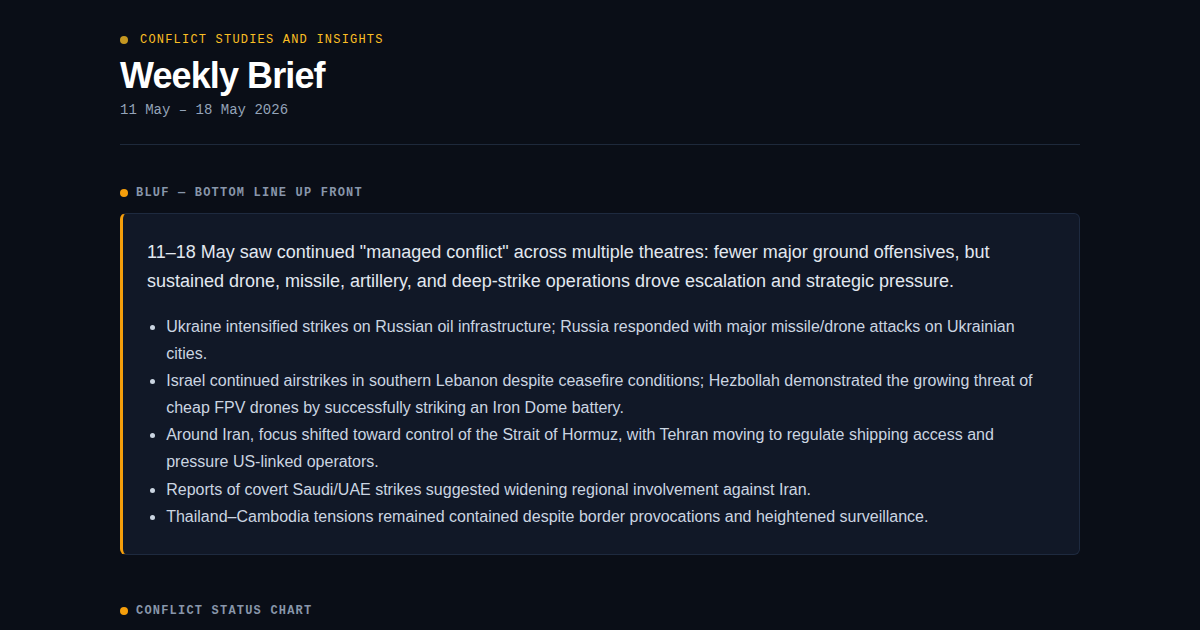
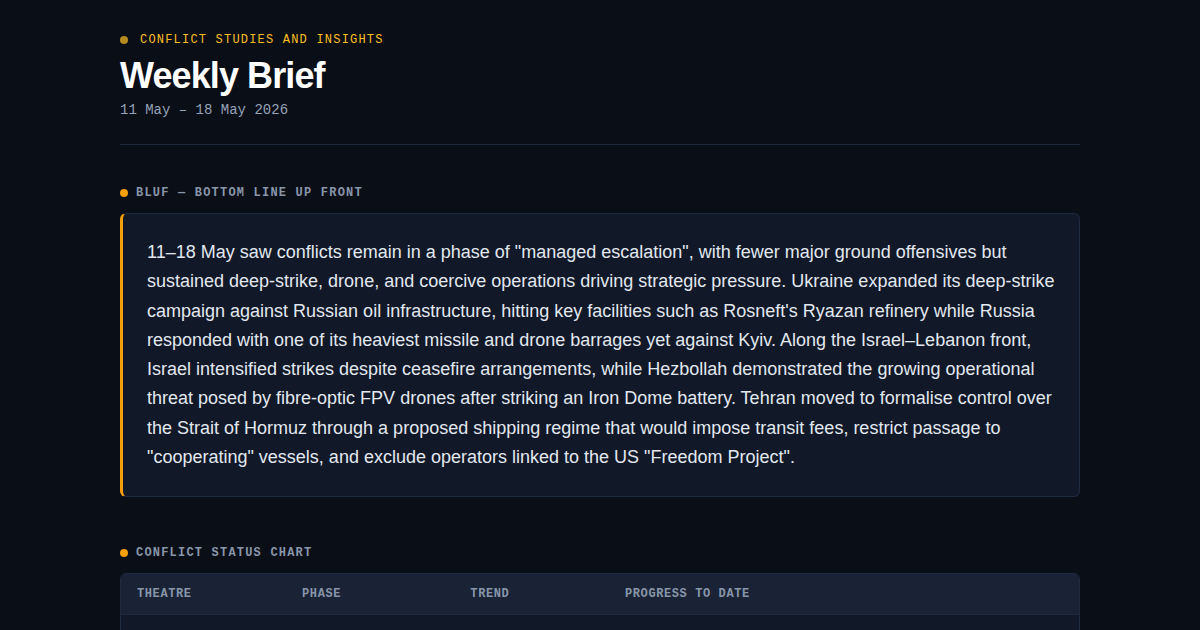
Add files via upload

Changed region(s): [[0.0925, 0.3921, 0.925, 0.9952]]

diff --git a/11-18-may-2026.html b/11-18-may-2026.html
@@ -334,16 +334,9 @@
   <section class="mb-12">
     <h2 class="font-mono text-xs tracking-widest uppercase mb-3" style="color:#8896aa;"><span class="sec-dot" style="background:#f59e0b"></span>BLUF — Bottom Line Up Front</h2>
     <div class="rounded-md p-5 sm-p-6" style="background:#111827; border:1px solid #1e2a3f; border-left:3px solid #f59e0b;">
-      <p class="text-base sm-text-lg leading-relaxed" style="color:#e2e8f0; margin-bottom:1rem;">
-        11–18 May saw continued "managed conflict" across multiple theatres: fewer major ground offensives, but sustained drone, missile, artillery, and deep-strike operations drove escalation and strategic pressure.
+      <p class="text-base sm-text-lg leading-relaxed" style="color:#e2e8f0;">
+        11–18 May saw conflicts remain in a phase of "managed escalation", with fewer major ground offensives but sustained deep-strike, drone, and coercive operations driving strategic pressure. Ukraine expanded its deep-strike campaign against Russian oil infrastructure, hitting key facilities such as Rosneft's Ryazan refinery while Russia responded with one of its heaviest missile and drone barrages yet against Kyiv. Along the Israel–Lebanon front, Israel intensified strikes despite ceasefire arrangements, while Hezbollah demonstrated the growing operational threat posed by fibre-optic FPV drones after striking an Iron Dome battery. Tehran moved to formalise control over the Strait of Hormuz through a proposed shipping regime that would impose transit fees, restrict passage to "cooperating" vessels, and exclude operators linked to the US "Freedom Project".
       </p>
-      <ul style="color:#cbd5e1; line-height:1.7; padding-left:1.2rem; list-style: disc; margin:0;">
-        <li>Ukraine intensified strikes on Russian oil infrastructure; Russia responded with major missile/drone attacks on Ukrainian cities.</li>
-        <li>Israel continued airstrikes in southern Lebanon despite ceasefire conditions; Hezbollah demonstrated the growing threat of cheap FPV drones by successfully striking an Iron Dome battery.</li>
-        <li>Around Iran, focus shifted toward control of the Strait of Hormuz, with Tehran moving to regulate shipping access and pressure US-linked operators.</li>
-        <li>Reports of covert Saudi/UAE strikes suggested widening regional involvement against Iran.</li>
-        <li>Thailand–Cambodia tensions remained contained despite border provocations and heightened surveillance.</li>
-      </ul>
     </div>
   </section>
 

diff --git a/index.html b/index.html
@@ -334,16 +334,9 @@
   <section class="mb-12">
     <h2 class="font-mono text-xs tracking-widest uppercase mb-3" style="color:#8896aa;"><span class="sec-dot" style="background:#f59e0b"></span>BLUF — Bottom Line Up Front</h2>
     <div class="rounded-md p-5 sm-p-6" style="background:#111827; border:1px solid #1e2a3f; border-left:3px solid #f59e0b;">
-      <p class="text-base sm-text-lg leading-relaxed" style="color:#e2e8f0; margin-bottom:1rem;">
-        11–18 May saw continued "managed conflict" across multiple theatres: fewer major ground offensives, but sustained drone, missile, artillery, and deep-strike operations drove escalation and strategic pressure.
+      <p class="text-base sm-text-lg leading-relaxed" style="color:#e2e8f0;">
+        11–18 May saw conflicts remain in a phase of "managed escalation", with fewer major ground offensives but sustained deep-strike, drone, and coercive operations driving strategic pressure. Ukraine expanded its deep-strike campaign against Russian oil infrastructure, hitting key facilities such as Rosneft's Ryazan refinery while Russia responded with one of its heaviest missile and drone barrages yet against Kyiv. Along the Israel–Lebanon front, Israel intensified strikes despite ceasefire arrangements, while Hezbollah demonstrated the growing operational threat posed by fibre-optic FPV drones after striking an Iron Dome battery. Tehran moved to formalise control over the Strait of Hormuz through a proposed shipping regime that would impose transit fees, restrict passage to "cooperating" vessels, and exclude operators linked to the US "Freedom Project".
       </p>
-      <ul style="color:#cbd5e1; line-height:1.7; padding-left:1.2rem; list-style: disc; margin:0;">
-        <li>Ukraine intensified strikes on Russian oil infrastructure; Russia responded with major missile/drone attacks on Ukrainian cities.</li>
-        <li>Israel continued airstrikes in southern Lebanon despite ceasefire conditions; Hezbollah demonstrated the growing threat of cheap FPV drones by successfully striking an Iron Dome battery.</li>
-        <li>Around Iran, focus shifted toward control of the Strait of Hormuz, with Tehran moving to regulate shipping access and pressure US-linked operators.</li>
-        <li>Reports of covert Saudi/UAE strikes suggested widening regional involvement against Iran.</li>
-        <li>Thailand–Cambodia tensions remained contained despite border provocations and heightened surveillance.</li>
-      </ul>
     </div>
   </section>
 
